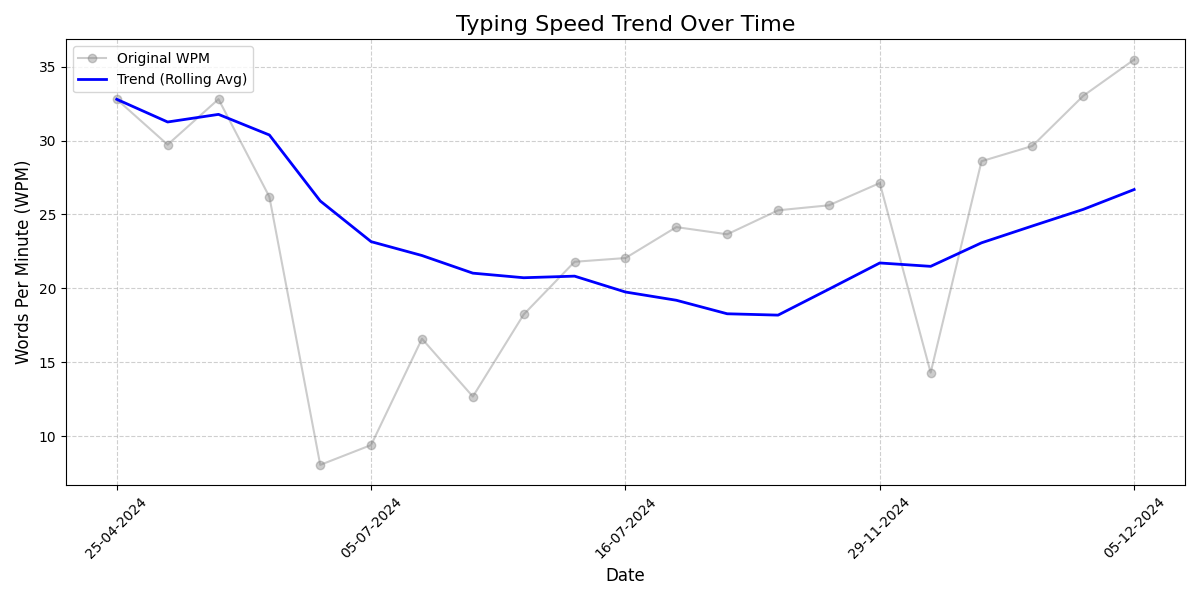
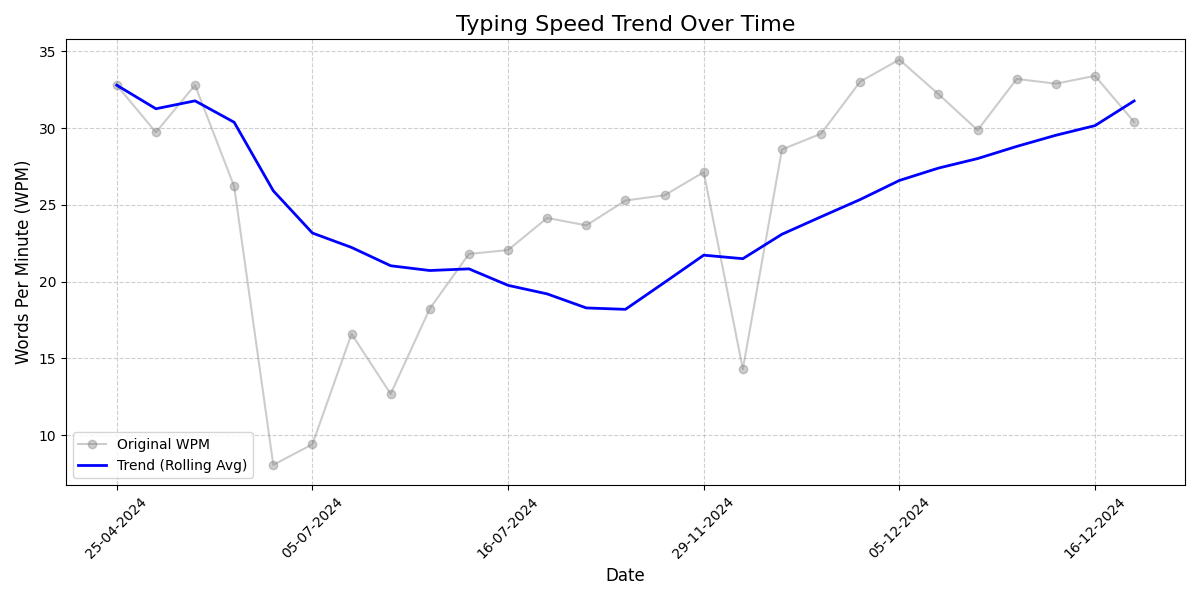
Update README with new stats (30/01/2025 10:29)

diff --git a/README.md b/README.md
@@ -4,16 +4,16 @@
 
 
         
-## Typing History Stats (Last Updated: 30/01/2025 10:06)
+## Typing History Stats (Last Updated: 30/01/2025 10:29)
 
 | **Key Stats**               | **Overall Stats**       | **Last 10 Tests Stats**  |
 |--------------------------|-------------------------|--------------------------|
-| **Total Entries**        | 247           | 10                       |
-| **Average WPM**          | 25.42           | 33.66    |
-| **Average Accuracy**     | 89.49%          | 90.57%   |
-| **Max WPM**              | 39.4               | 39.4        |
-| **Min WPM**              | 2.4               | 23.6                        |
-| **Total Duration**       | 04:02:01        | 00:10:00                        |
+| **Total Entries**        | 330           | 10                       |
+| **Average WPM**          | 27.05           | 31.74    |
+| **Average Accuracy**     | 90.26%          | 93.57%   |
+| **Max WPM**              | 41.0               | 35.19        |
+| **Min WPM**              | 2.4               | 29.0                        |
+| **Total Duration**       | 05:25:02        | 00:10:00                        |
 
 
 ---
@@ -22,16 +22,16 @@
 
 | | WPM | Accuracy | Consistency | Mode | Date |
 | --- | --- | -------- | ----------- | ---- | --------- |
-| 1 | 39.4 | 95.73 | 74.84 | time 60 | 05-12-2024 15:19:59 |
-| 2 | 39.19 | 98.05 | 67.81 | time 60 | 05-12-2024 15:16:52 |
-| 3 | 32.2 | 93.68 | 57.21 | time 60 | 05-12-2024 15:12:27 |
-| 4 | 30.0 | 86.67 | 69.43 | time 60 | 05-12-2024 15:11:24 |
-| 5 | 36.59 | 94.69 | 67.2 | time 60 | 05-12-2024 15:05:53 |
-| 6 | 23.6 | 75.69 | 63.44 | time 60 | 04-12-2024 14:55:33 |
-| 7 | 30.19 | 84.62 | 71.32 | time 60 | 04-12-2024 14:54:29 |
-| 8 | 32.79 | 87.1 | 74.71 | time 60 | 04-12-2024 14:53:20 |
-| 9 | 37.39 | 95.28 | 69.67 | time 60 | 04-12-2024 14:52:18 |
-| 10 | 35.2 | 94.2 | 73.32 | time 60 | 04-12-2024 14:51:14 |
+| 1 | 30.39 | 91.85 | 60.59 | time 60 | 30-01-2025 10:04:59 |
+| 2 | 33.4 | 96.74 | 64.85 | time 60 | 16-12-2024 20:40:14 |
+| 3 | 33.2 | 95.14 | 64.34 | time 60 | 13-12-2024 12:53:54 |
+| 4 | 34.4 | 96.34 | 64.89 | time 60 | 13-12-2024 12:52:51 |
+| 5 | 29.99 | 92.47 | 71.94 | time 60 | 13-12-2024 12:51:48 |
+| 6 | 29.0 | 92.0 | 61.79 | time 60 | 13-12-2024 12:50:41 |
+| 7 | 30.4 | 92.27 | 61.98 | time 60 | 13-12-2024 12:48:02 |
+| 8 | 35.19 | 96.28 | 59.46 | time 60 | 13-12-2024 12:46:58 |
+| 9 | 31.6 | 93.41 | 61.49 | time 60 | 13-12-2024 12:45:54 |
+| 10 | 29.8 | 89.19 | 61.97 | time 60 | 13-12-2024 12:44:49 |
 
 
  --- 
@@ -40,16 +40,16 @@
 
 | | WPM | Accuracy | Consistency | Mode | Date |
 | --- | --- | -------- | ----------- | ---- | --------- |
-| 1 | 39.4 | 95.73 | 74.84 | time 60 | 05-12-2024 15:19:59 |
-| 2 | 39.2 | 98.02 | 71.32 | time 60 | 03-12-2024 12:54:58 |
-| 3 | 39.19 | 98.05 | 67.81 | time 60 | 05-12-2024 15:16:52 |
-| 4 | 38.2 | 95.69 | 74.6 | time 60 | 04-12-2024 12:49:55 |
-| 5 | 38.0 | 98.46 | 70.48 | time 60 | 03-12-2024 15:03:03 |
-| 6 | 38.0 | 98.96 | 59.45 | time 60 | 02-12-2024 14:02:40 |
-| 7 | 37.8 | 90.74 | 73.55 | time 60 | 04-12-2024 14:49:52 |
-| 8 | 37.4 | 90.09 | 70.27 | time 60 | 04-12-2024 14:48:39 |
-| 9 | 37.39 | 95.28 | 69.67 | time 60 | 04-12-2024 14:52:18 |
-| 10 | 37.0 | 94.23 | 71.41 | time 60 | 04-12-2024 12:51:01 |
+| 1 | 41.0 | 99.06 | 76.06 | time 60 | 06-12-2024 15:21:01 |
+| 2 | 39.4 | 95.73 | 74.84 | time 60 | 05-12-2024 15:19:59 |
+| 3 | 39.2 | 98.02 | 71.32 | time 60 | 03-12-2024 12:54:58 |
+| 4 | 39.19 | 98.05 | 67.81 | time 60 | 05-12-2024 15:16:52 |
+| 5 | 38.2 | 95.69 | 74.6 | time 60 | 04-12-2024 12:49:55 |
+| 6 | 38.19 | 97.98 | 64.45 | time 60 | 13-12-2024 12:43:46 |
+| 7 | 38.0 | 98.46 | 70.48 | time 60 | 03-12-2024 15:03:03 |
+| 8 | 38.0 | 98.96 | 59.45 | time 60 | 02-12-2024 14:02:40 |
+| 9 | 37.8 | 90.74 | 73.55 | time 60 | 04-12-2024 14:49:52 |
+| 10 | 37.4 | 90.09 | 70.27 | time 60 | 04-12-2024 14:48:39 |
 
 
  --- 
@@ -58,16 +58,16 @@
 
 | | Date | Tests | WPM | Acuracy | Consistency |
 | --- | --- | -------- | ----------- | ---- | --------- |
-| 1 | 2024-12-05 | 5 | 35.48 | 93.76 | 67.3 |
-| 2 | 2024-12-04 | 30 | 33.02 | 90.76 | 68.43 |
-| 3 | 2024-12-03 | 25 | 29.63 | 89.03 | 65.45 |
-| 4 | 2024-12-02 | 40 | 28.6 | 89.54 | 61.77 |
-| 5 | 2024-12-01 | 4 | 14.3 | 91.05 | 40.58 |
-| 6 | 2024-11-29 | 22 | 27.13 | 90.86 | 58.86 |
-| 7 | 2024-11-28 | 10 | 25.62 | 90.47 | 57.94 |
-| 8 | 2024-11-27 | 10 | 25.28 | 91.14 | 57.45 |
-| 9 | 2024-11-26 | 10 | 23.66 | 91.24 | 52.23 |
-| 10 | 2024-11-25 | 11 | 24.14 | 90.43 | 50.78 |
+| 1 | 2025-01-30 | 1 | 30.39 | 91.85 | 60.59 |
+| 2 | 2024-12-16 | 1 | 33.4 | 96.74 | 64.85 |
+| 3 | 2024-12-13 | 20 | 32.89 | 93.98 | 63.89 |
+| 4 | 2024-12-12 | 11 | 33.2 | 94.22 | 64.71 |
+| 5 | 2024-12-11 | 23 | 29.86 | 92.04 | 61.76 |
+| 6 | 2024-12-06 | 22 | 32.21 | 91.44 | 66.82 |
+| 7 | 2024-12-05 | 10 | 34.46 | 91.89 | 69.28 |
+| 8 | 2024-12-04 | 30 | 33.02 | 90.76 | 68.43 |
+| 9 | 2024-12-03 | 25 | 29.63 | 89.03 | 65.45 |
+| 10 | 2024-12-02 | 40 | 28.6 | 89.54 | 61.77 |
 
 
  --- 
@@ -76,16 +76,16 @@
 
 | | Date | Tests | WPM | Acuracy | Consistency |
 | --- | --- | -------- | ----------- | ---- | --------- |
-| 1 | 2024-12-04 | 30 | 33.02 | 90.76 | 68.43 |
-| 2 | 2024-12-03 | 25 | 29.63 | 89.03 | 65.45 |
-| 3 | 2024-12-02 | 40 | 28.6 | 89.54 | 61.77 |
-| 4 | 2024-11-29 | 22 | 27.13 | 90.86 | 58.86 |
-| 5 | 2024-11-28 | 10 | 25.62 | 90.47 | 57.94 |
-| 6 | 2024-11-27 | 10 | 25.28 | 91.14 | 57.45 |
-| 7 | 2024-11-25 | 11 | 24.14 | 90.43 | 50.78 |
-| 8 | 2024-11-26 | 10 | 23.66 | 91.24 | 52.23 |
-| 9 | 2024-07-16 | 19 | 22.05 | 87.67 | 54.07 |
-| 10 | 2024-07-12 | 15 | 21.8 | 90.4 | 50.77 |
+| 1 | 2024-12-05 | 10 | 34.46 | 91.89 | 69.28 |
+| 2 | 2024-12-12 | 11 | 33.2 | 94.22 | 64.71 |
+| 3 | 2024-12-04 | 30 | 33.02 | 90.76 | 68.43 |
+| 4 | 2024-12-13 | 20 | 32.89 | 93.98 | 63.89 |
+| 5 | 2024-12-06 | 22 | 32.21 | 91.44 | 66.82 |
+| 6 | 2024-12-11 | 23 | 29.86 | 92.04 | 61.76 |
+| 7 | 2024-12-03 | 25 | 29.63 | 89.03 | 65.45 |
+| 8 | 2024-12-02 | 40 | 28.6 | 89.54 | 61.77 |
+| 9 | 2024-11-29 | 22 | 27.13 | 90.86 | 58.86 |
+| 10 | 2024-11-28 | 10 | 25.62 | 90.47 | 57.94 |
 
 
  --- 
